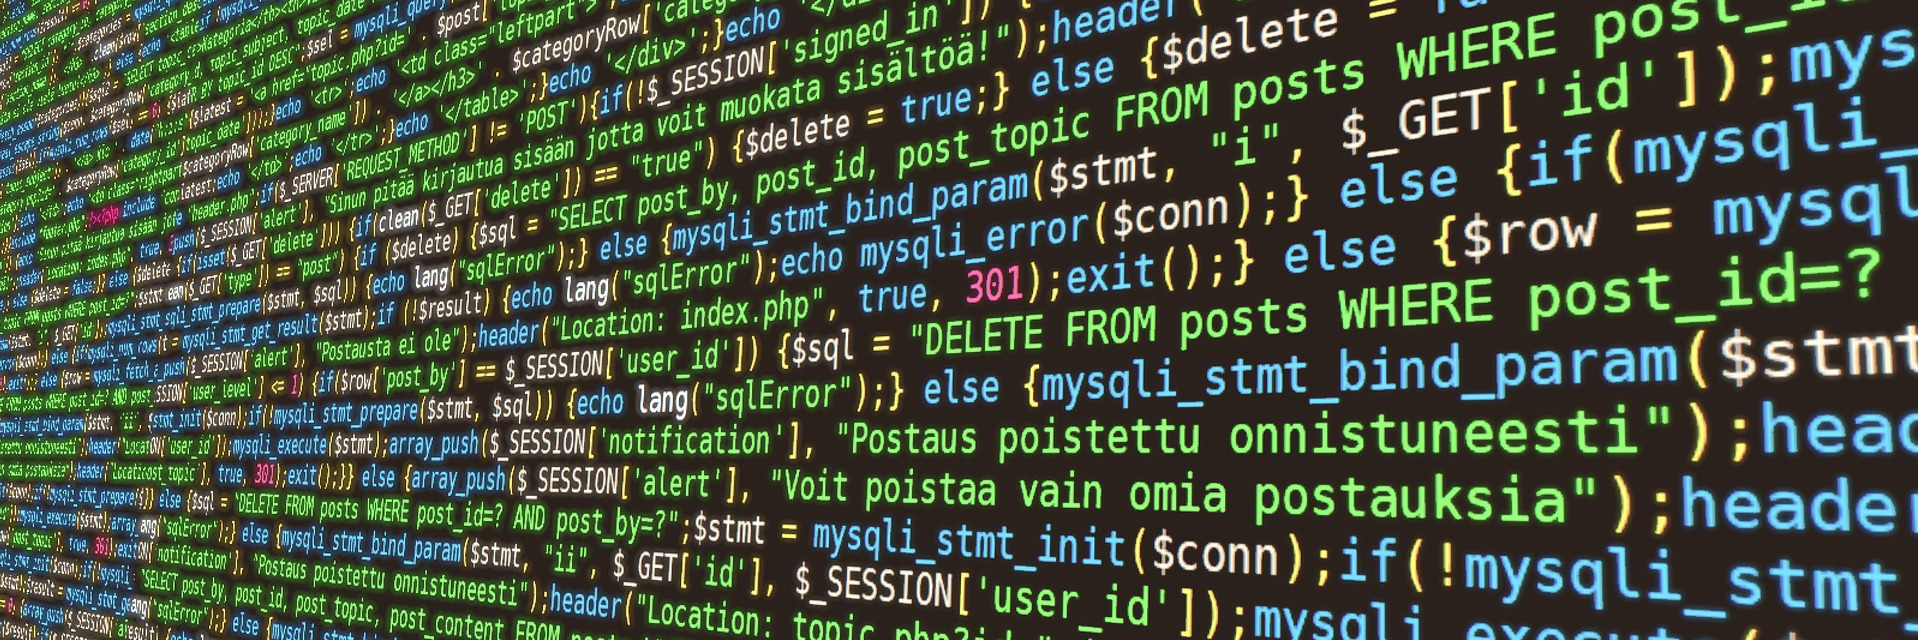
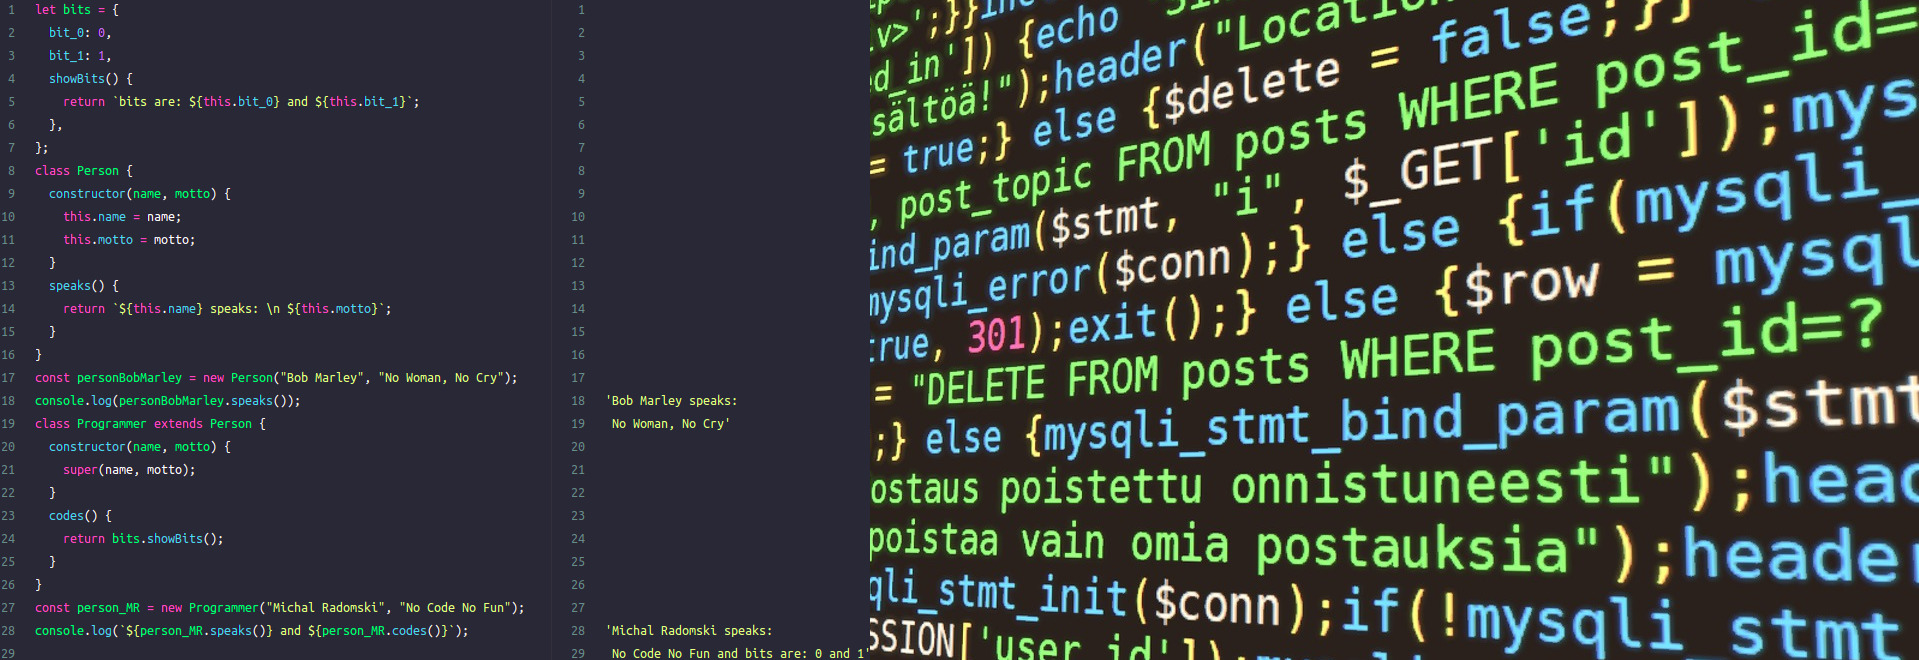
Header done

diff --git a/oop.js b/oop.js
@@ -11,7 +11,7 @@ class Person {
     this.motto = motto;
   }
   speaks() {
-    return `${this.name} speaks: ${this.motto}`;
+    return `${this.name} speaks: \n ${this.motto}`;
   }
 }
 const personBobMarley = new Person("Bob Marley", "No Woman, No Cry");

diff --git a/style.css b/style.css
@@ -23,9 +23,9 @@ div.w3-top {
 }
 
 header {
-  background-image: url(./Media/header2.jpg);
+  background-image: url(./Media/header.jpg);
   width: 100%;
-  height: 640px;
+  height: 660px;
   margin-top: 51px;
 }
 /*# sourceMappingURL=style.css.map */

diff --git a/style.scss b/style.scss
@@ -20,8 +20,8 @@ div.w3-top {
   height: 51px;
 }
 header {
-  background-image: url(./Media/header2.jpg);
+  background-image: url(./Media/header.jpg);
   width: 100%;
-  height: 640px;
+  height: 660px;
   margin-top: 51px;
 }
